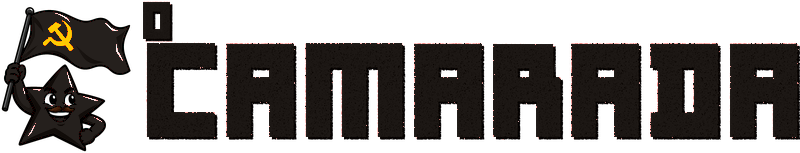
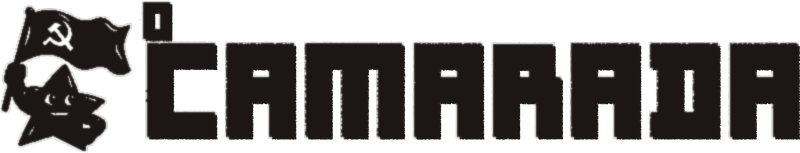
Marca: O Camarada amarela/branca/preta viram silhuetas de uma cor (mascote e nome), com foice e martelo e olhos vazados
Claude-Session: https://claude.ai/code/session_01XvS1qymZC48cEc2EdVsYp5

diff --git a/identidade/marca/variantes/LEIA-ME.md b/identidade/marca/variantes/LEIA-ME.md
@@ -7,4 +7,4 @@ Geradas a partir das logos oficiais (`../o-camarada-mascote-*.png`, `../coletivo
 | O Camarada horizontal (`o-camarada-h-*`) e com mascote (`o-camarada-v-*`) | vermelha (original), amarela, branca, preta | vermelha: fundos amarelo, bege, preto · amarela: fundo vermelho ou preto · branca: fundo vermelho, preto ou foto · preta: fundo amarelo ou bege |
 | Coletivo Lufã horizontal (`lufa-h-*`), vertical (`lufa-v-*`) e faixa (`lufa-f-*`) | colorida (original), amarela, branca, preta (uma cor só, com os blocos vazados) | colorida: fundos amarelo, preto, bege · amarela/branca: fundo vermelho ou foto · preta: fundo amarelo ou bege |
 
-Na O Camarada, só o vermelho troca de cor (o sombreado, os contornos pretos e o rosto ficam); nas versões amarela e branca a foice e o martelo ficam vermelhos.
+Na O Camarada, a versão vermelha é a original colorida; as versões amarela, branca e preta são SILHUETAS de uma cor só (mascote e nome), com a foice e o martelo, o branco dos olhos e os dentes vazados.
